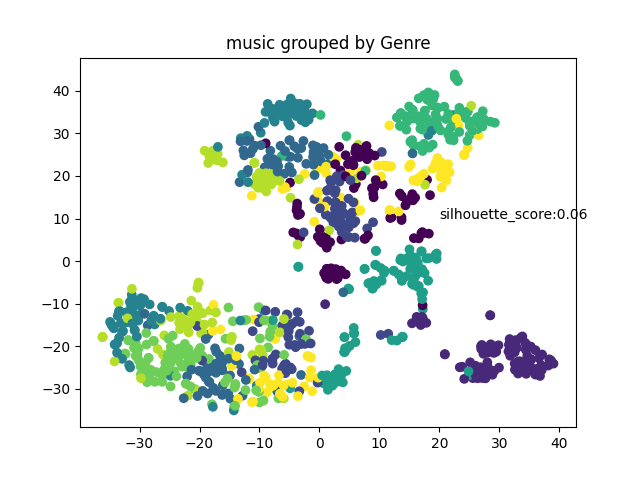
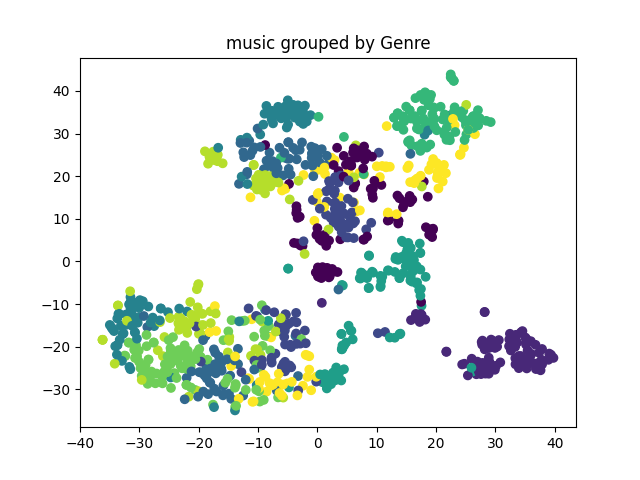
minor changes

diff --git a/src/main.py b/src/main.py
@@ -57,7 +57,7 @@ y_hdbscan = hdbscan.labels_
 dbscan  = DBSCAN(eps=4.2, min_samples=5).fit(emb_list)
 y_dbscan = dbscan.labels_
 
-affinity = AffinityPropagation(eps=12.2, min_samples=5).fit(emb_list)
+affinity = AffinityPropagation().fit(emb_list)
 y_affinity = affinity.labels_
 
 
